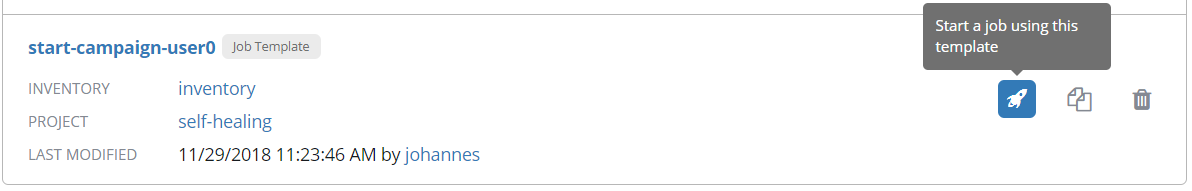
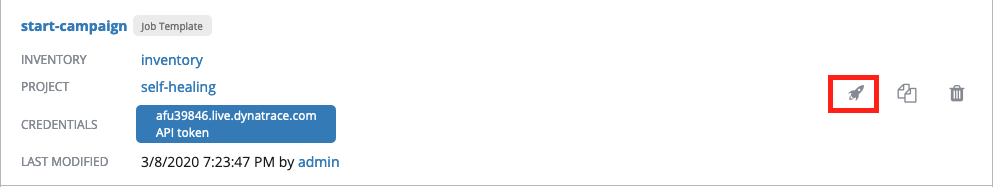
updated screenshots and instructions to correct job names and new views in Dynatrace

diff --git a/workshop/09_Runbook_Automation_and_Self_Healing/04_Run_Playbook/README.md b/workshop/09_Runbook_Automation_and_Self_Healing/04_Run_Playbook/README.md
@@ -12,7 +12,6 @@ The campaign playbook has already been set up in [Lab 2](../2_Setup_Tower).
 ## Run the campaign in our PRODUCTION environment
 
 1. Generate load for the `carts` service
-    - On your **local machine**, Navigate to the `9_Runbook_Automation_and_Self_Healing` folder
     - Start the [load generator](../scripts/) script by executing the following command:
       ```
       (bastion)$ cd ~
@@ -21,7 +20,7 @@ The campaign playbook has already been set up in [Lab 2](../2_Setup_Tower).
 
 1. Run the promotional campain
     - Navigate to _Templates_ in your Ansible Tower
-    - Click on the "rocket" icon (🚀) next to your _start campaign userX_ job template
+    - Click on the "rocket" icon (🚀) next to your _start campaign_ job template
     ![run template](../assets/ansible-template-run.png)
     - Adjust the values accordingly for you promotional campaign:
       - Set the value for `promotion_rate: '20'` to allow for 20 % of the user interactions to receive the promotional gift
@@ -33,13 +32,13 @@ The campaign playbook has already been set up in [Lab 2](../2_Setup_Tower).
 1. Verify the update in the `carts` service in Dynatrace: navigate to the `carts` service in your Dynatrace tenant and verify the configuration change that has been applied and sent to Dynatrace.
     ![custom configuration event](../assets/service-custom-configuration-event.png)
 
-1. Experience an increase of the failure rate: you will experience an increase of the failure rate of the `carts-ItemController` in Dynatrace once you enable the promotional campaign. 
+1. Experience an increase of the failure rate: you will experience an increase of the failure rate of the `ItemController` in Dynatrace once you enable the promotional campaign. 
     ![failure rate increase](../assets/failure-rate-increase.png)
 
 1. Dynatrace will open a problem ticket for the increase of the failure rate. Since we have setup the problem notification with Ansible Tower, the according `remediation` playbook will be executed once Dynatrace sends out the notification.
 
 1. Verify executed playbooks in Ansible Tower:
-    Navigate to "Jobs" and verify that Ansible Tower has executed two jobs. The first job - `remediation-userX` was called since Dynatrace sent out the problem notification to Ansible Tower. This job was then executing the remediation tasks which include the execution of the remediation action that is defined in the custom configuration event of the impacted entities (the `carts` service). Therefore, you will also see the `stop-campaign-userX` that was executed.
+    Navigate to "Jobs" and verify that Ansible Tower has executed two jobs. The first job - `remediation` was called since Dynatrace sent out the problem notification to Ansible Tower. This job was then executing the remediation tasks which include the execution of the remediation action that is defined in the custom configuration event of the impacted entities (the `carts` service). Therefore, you will also see the `stop-campaign` that was executed.
 
     ![remediation job execution](../assets/ansible-remediation-execution.png)
 
